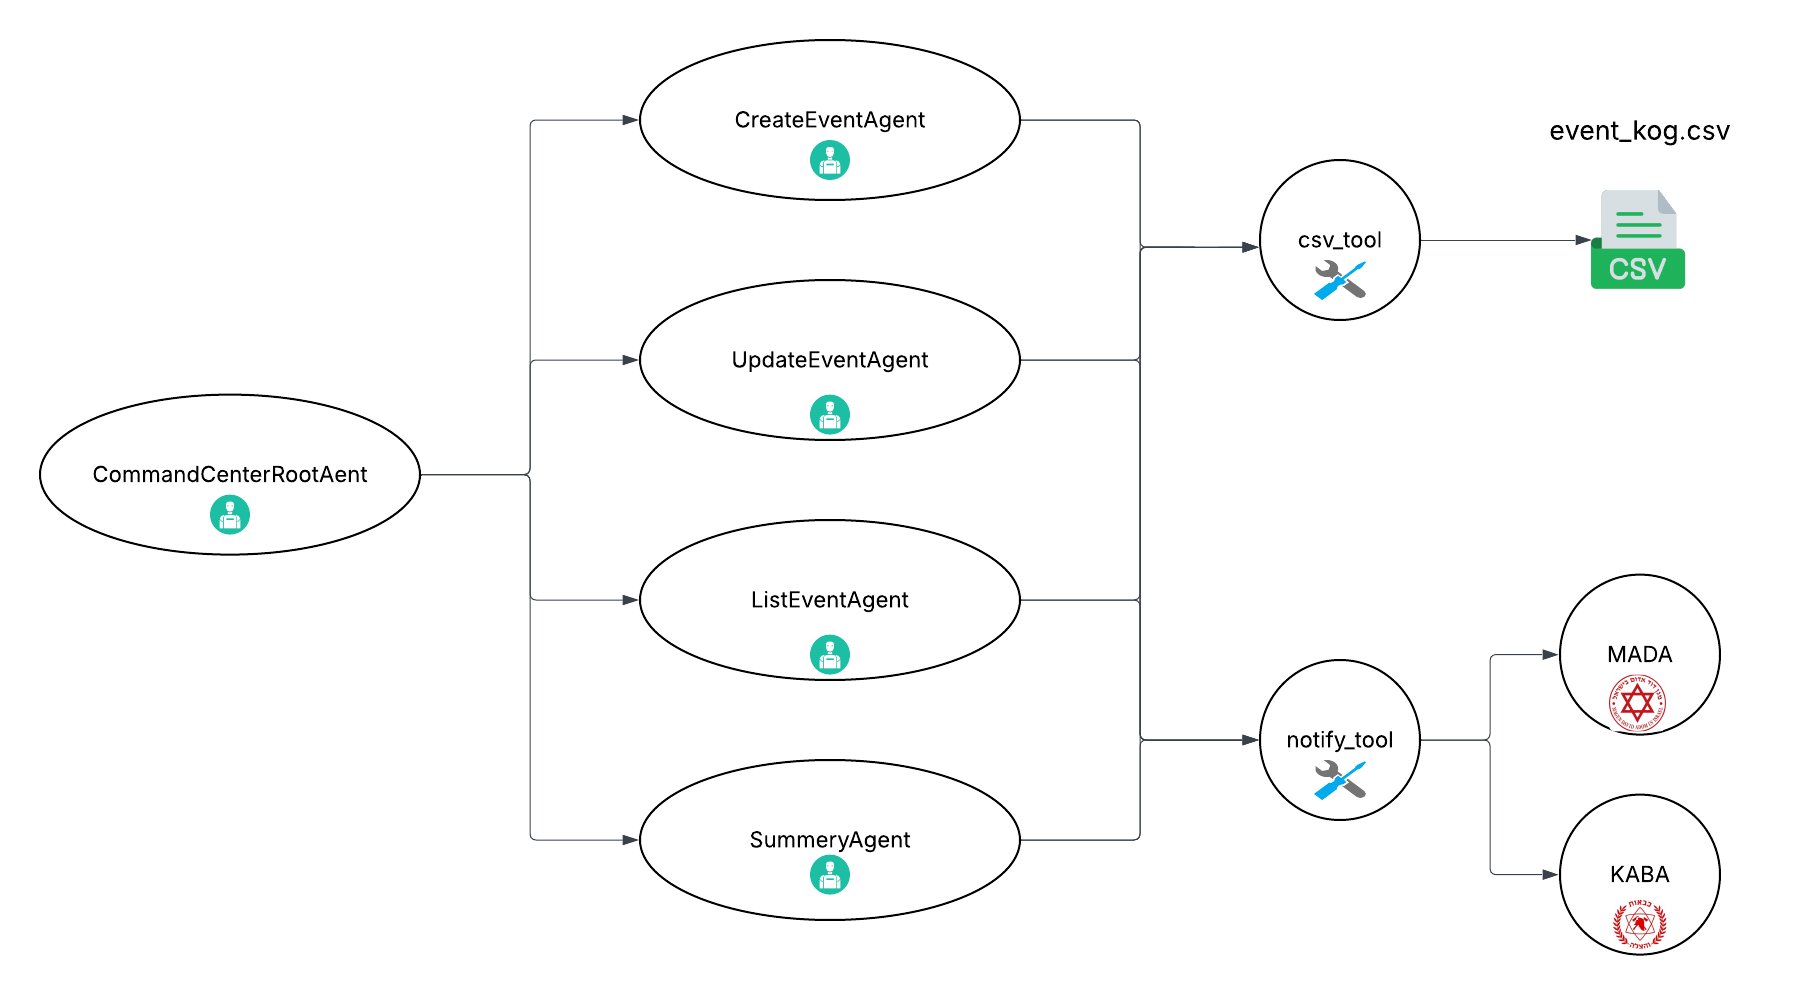
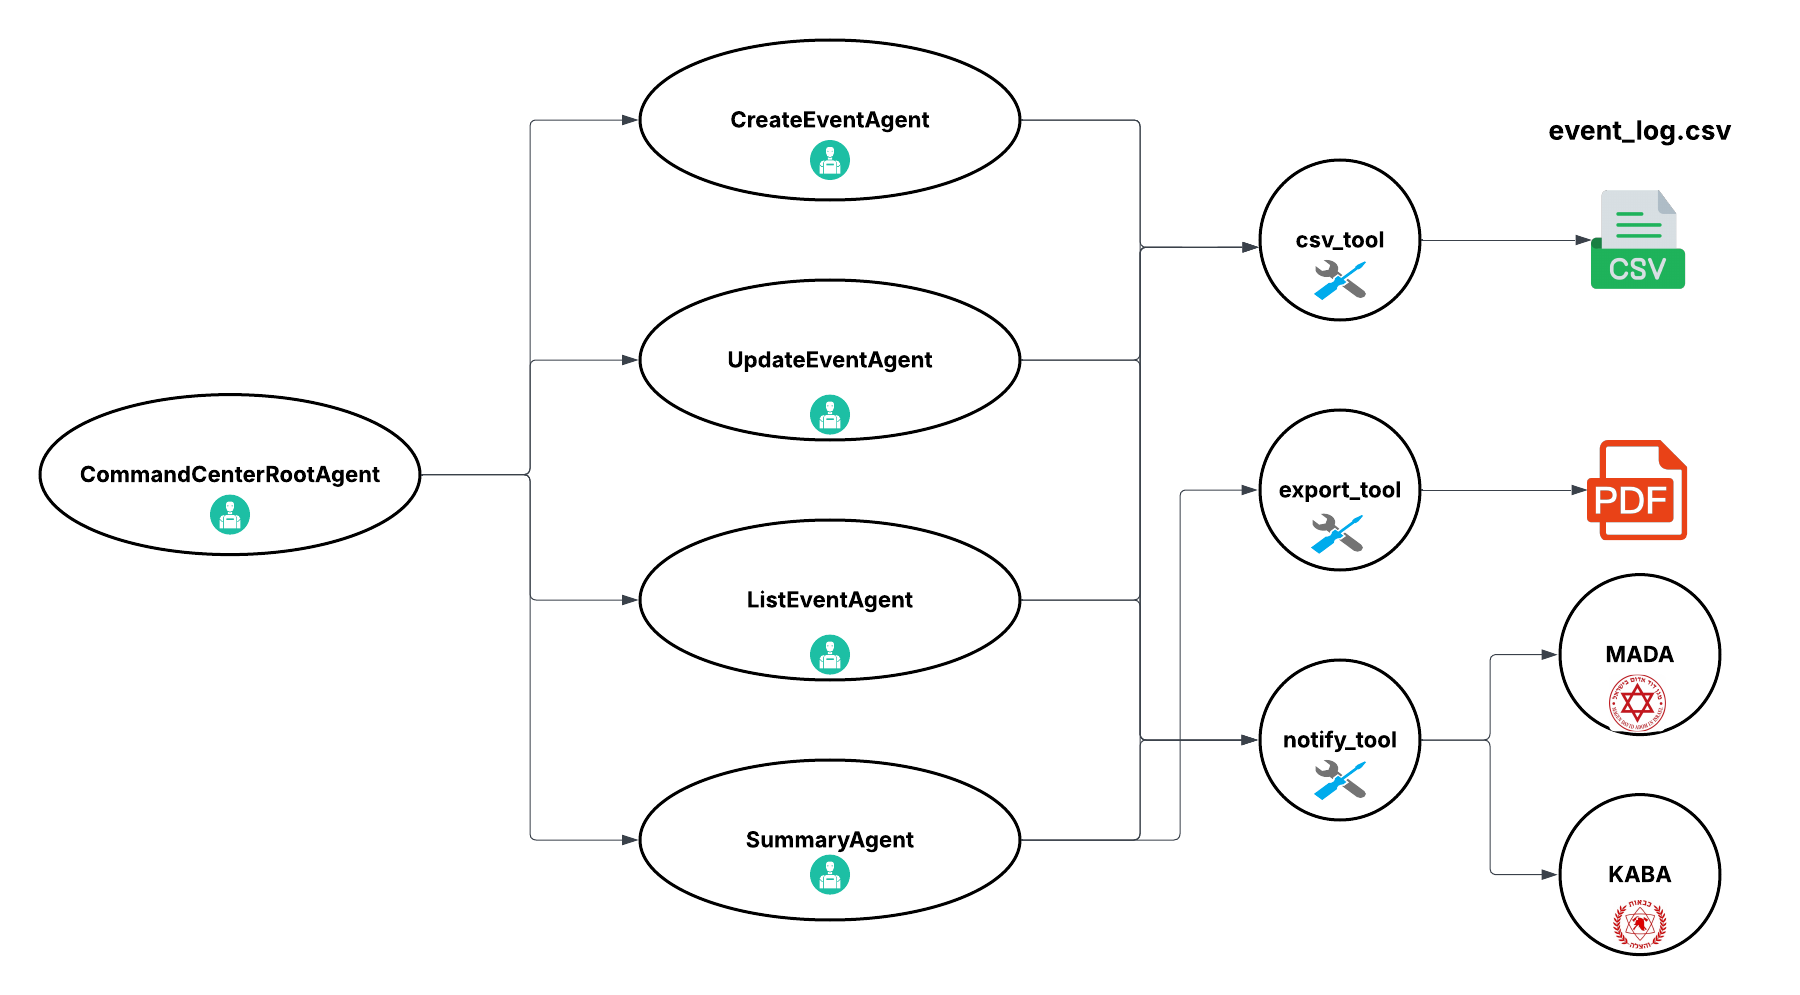
Update (Readme.md): add section of stramlit. &&  Update(architecture.png): remove transparet background and add commponnets

diff --git a/README.md b/README.md
@@ -153,6 +153,40 @@ http://localhost:8000/dev-ui?app=CommandCenterRootAgent
 
 ---
 
+## 📊 View Results in Streamlit
+
+You can also **visualize emergency event data** using a Streamlit dashboard.
+
+### Why use it?
+
+- Friendly, interactive way to **view and filter the CSV data**
+- Great for **team monitoring** or external stakeholders
+- Can be hosted separately from the ADK app
+
+### Example code:
+
+```bash
+pip install streamlit pandas
+```
+
+```python
+# streamlit_app.py
+import pandas as pd
+import streamlit as st
+
+df = pd.read_csv("events_log.csv")
+st.title("📋 Emergency Events Dashboard")
+st.dataframe(df)
+```
+
+Then run it:
+
+```bash
+streamlit run app.py
+```
+
+---
+
 ## 📝 Design Considerations
 
 - Language: All logic and user interaction is in Hebrew
